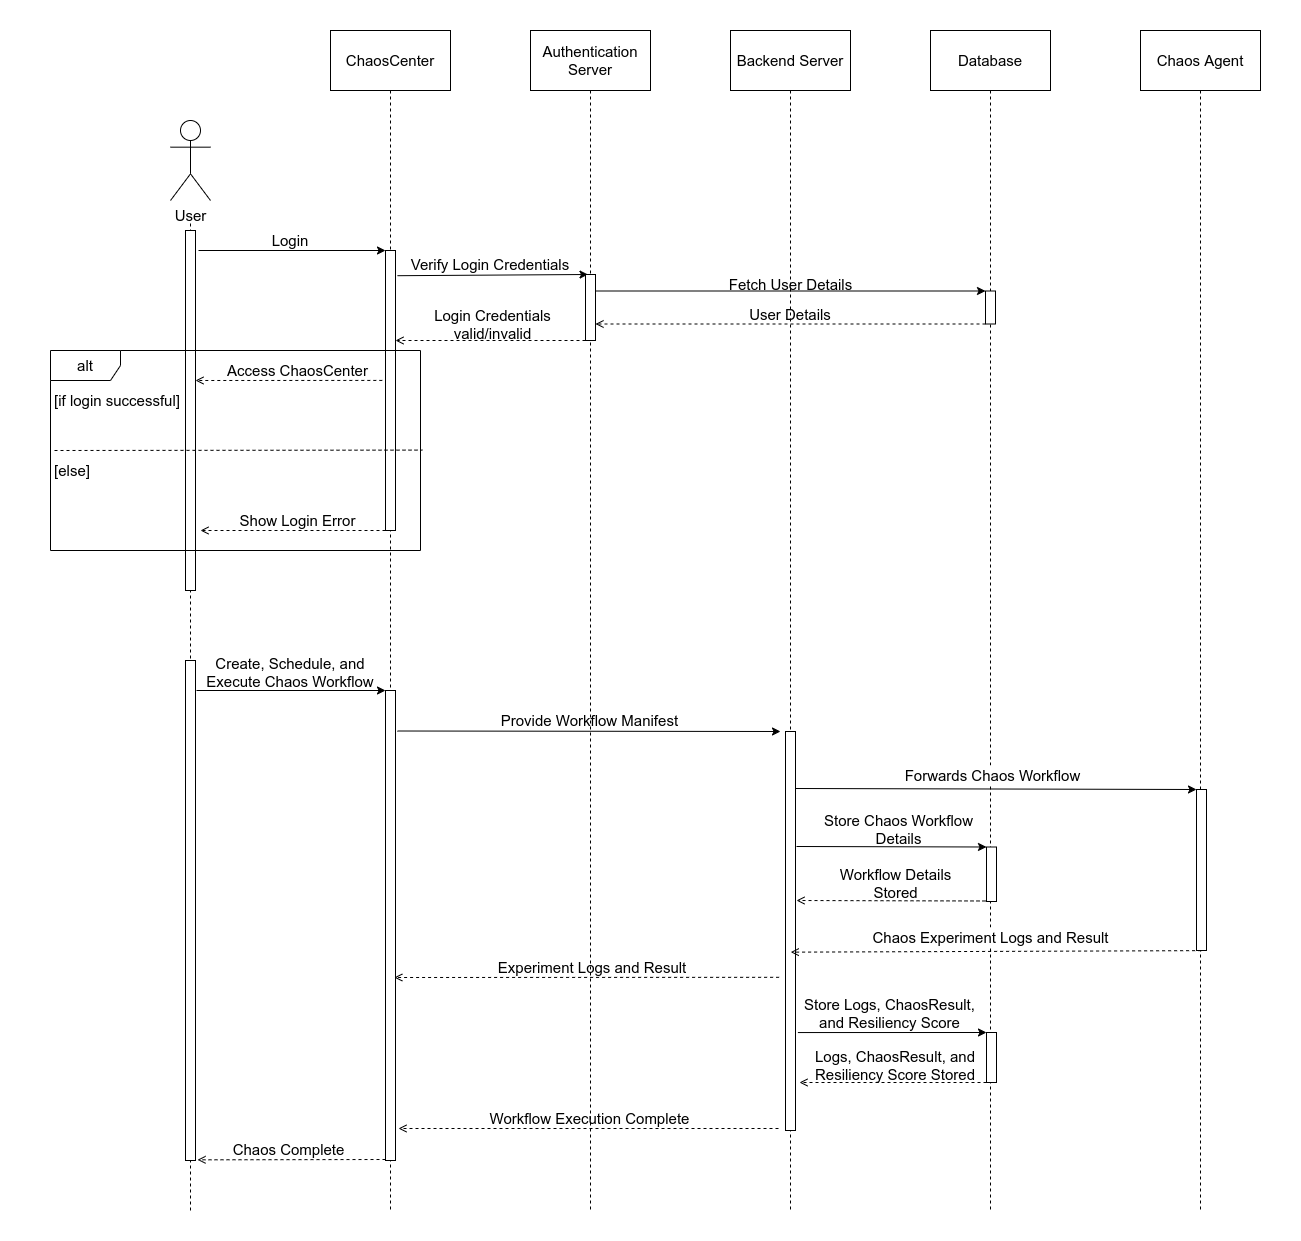
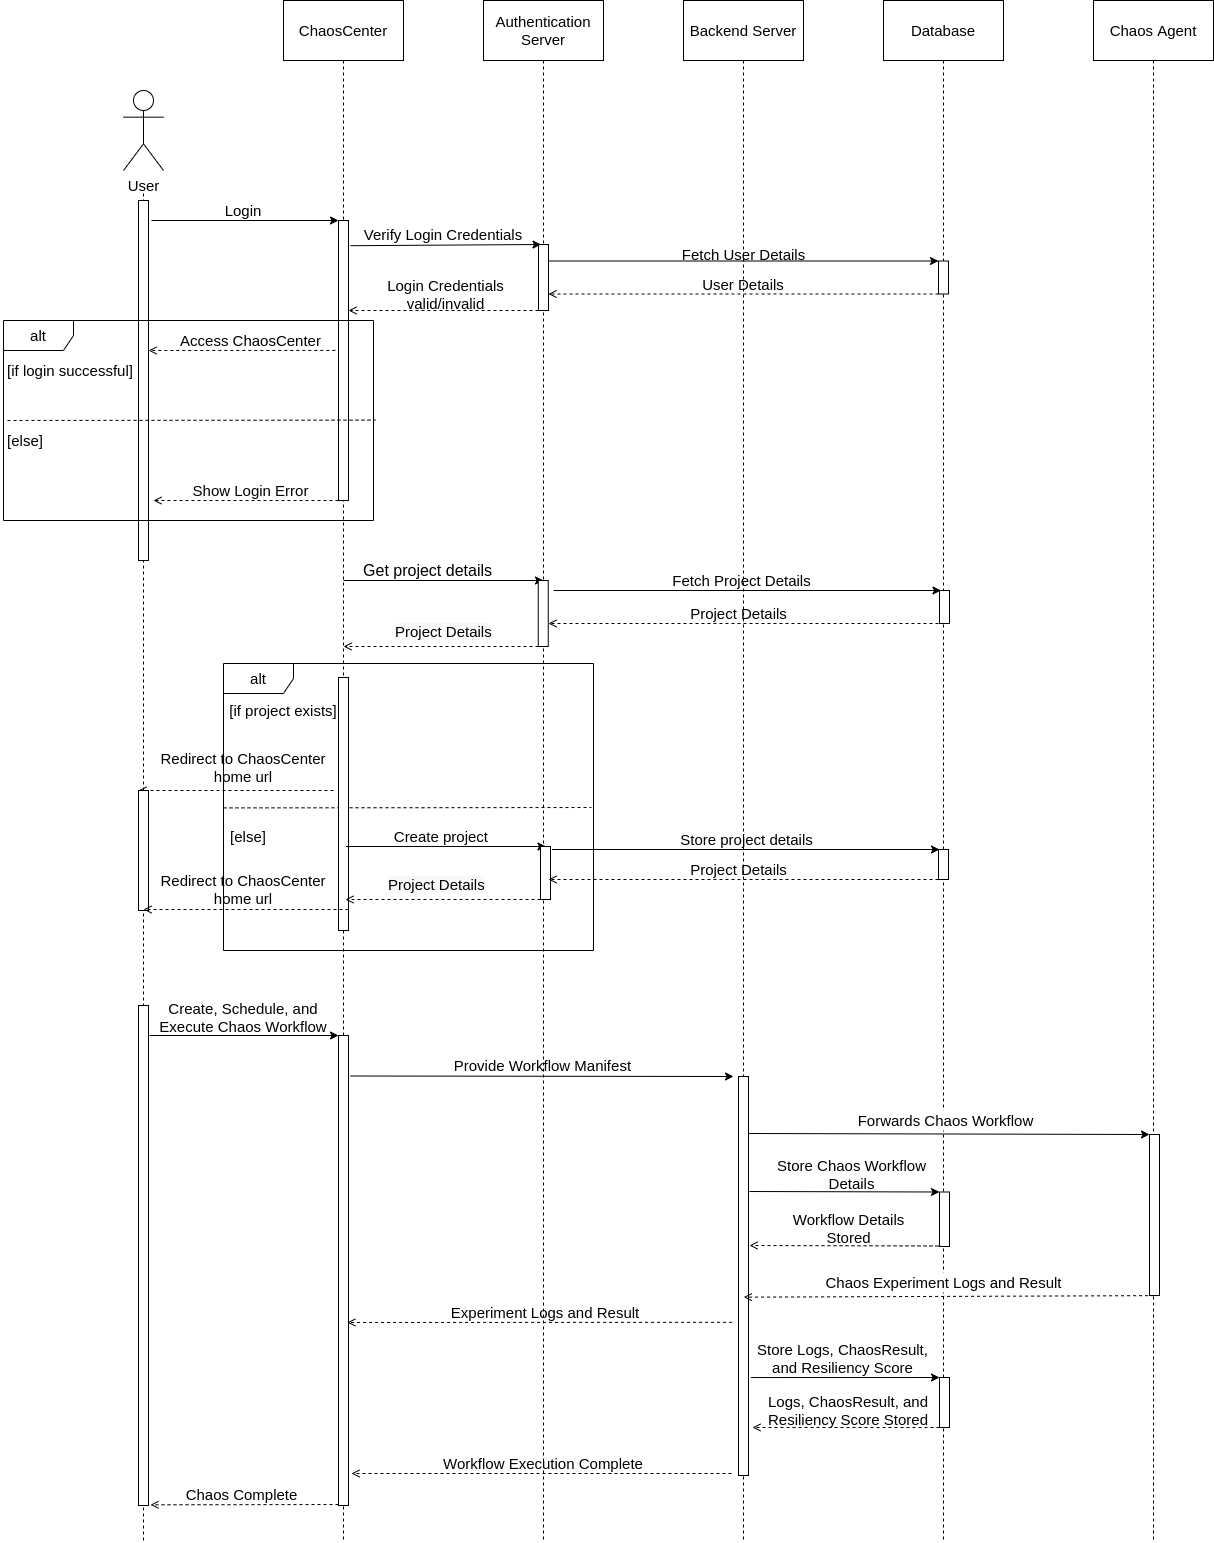
Updated chaos control plane arch (#159)

diff --git a/website/docs/architecture/chaos-control-plane.md b/website/docs/architecture/chaos-control-plane.md
@@ -12,7 +12,7 @@ Chaos Control Plane consists of micro-services responsible for the functioning o
 
 ## Chaos Control Plane Components
 
-* **Authentication Server:** A Golang micro-service that is responsible for authorizing as well as authenticating the requests received from Chaos Center. It primarily serves the cause of user creation, user login, reset the password, and update user information.
+* **Authentication Server:** A Golang micro-service that is responsible for authorizing, authenticating the requests received from Chaos Center and managing users along with their projects. It primarily serves the cause of user creation, user login, resetting the password, updating user information, creating project, managing project related operations.
 
 * **Backend Server:** A GraphQL based Golang micro-service that serves the requests received from Chaos Center, by either querying the database for the relevant information or by fetching information from the Execution Plane.
 
@@ -26,13 +26,13 @@ Chaos Control Plane consists of micro-services responsible for the functioning o
 
   * **Litmus API:** Refers to two different Litmus APIs, namely Litmus Authentication API and Litmus Portal API:
 
-    * **Litmus Authentication API:** Used to authenticate the idenity of a user and to perform several user-specific tasks like update profile, change password, reset password, create new users, etc. It uses the Authentication Server to perform these tasks.
+    * **Litmus Authentication API:** Used to authenticate the identity of a user and to perform several user and project specific tasks like create new users, update profile, update password, create project, invite users to project, get project details etc. It uses the Authentication Server to perform these tasks.
 
     * **Litmus Portal API:** Provides command-line and UI experience for managing and monitoring the events around chaos workflows. It uses the Backend Server to perform its functions.
 
 ## Standard Chaos Control Plane Flow
 
-1. The User logs in to the ChaosCenter using a valid login credential. Every user is a part of a project and has a role assigned to them. To schedule a workflow, the user needs to have an Editor or Owner role assigned in the project.
+1. The User logs in to the ChaosCenter using a valid login credential. A default project is created for the user on initial login. Every user is a part of a project and has a role assigned to them. To schedule a workflow, the user needs to have an Editor or Owner role assigned in the project.
 2. The user uploads a Chaos Workflow manifest using the ChaosCenter, which is received by the Backend Server.
 3. Backend Server stores the manifest in the Database and also sends it to the Chaos Agent.
 4. Chaos Agent uses the Chaos Workflow manifest to inject chaos into the target resources. The steps of the Chaos Workflow execution can be visualized using the ChaosCenter.

diff --git a/website/versioned_docs/version-2.4.0/architecture/chaos-control-plane.md b/website/versioned_docs/version-2.4.0/architecture/chaos-control-plane.md
@@ -12,7 +12,7 @@ Chaos Control Plane consists of micro-services responsible for the functioning o
 
 ## Chaos Control Plane Components
 
-* **Authentication Server:** A Golang micro-service that is responsible for authorizing as well as authenticating the requests received from Chaos Center. It primarily serves the cause of user creation, user login, reset the password, and update user information.
+* **Authentication Server:** A Golang micro-service that is responsible for authorizing, authenticating the requests received from Chaos Center and managing users along with their projects. It primarily serves the cause of user creation, user login, resetting the password, updating user information, creating project, managing project related operations.
 
 * **Backend Server:** A GraphQL based Golang micro-service that serves the requests received from Chaos Center, by either querying the database for the relevant information or by fetching information from the Execution Plane.
 
@@ -26,13 +26,13 @@ Chaos Control Plane consists of micro-services responsible for the functioning o
 
   * **Litmus API:** Refers to two different Litmus APIs, namely Litmus Authentication API and Litmus Portal API:
 
-    * **Litmus Authentication API:** Used to authenticate the idenity of a user and to perform several user-specific tasks like update profile, change password, reset password, create new users, etc. It uses the Authentication Server to perform these tasks.
+    * **Litmus Authentication API:** Used to authenticate the identity of a user and to perform several user and project specific tasks like create new users, update profile, update password, create project, invite users to project, get project details etc. It uses the Authentication Server to perform these tasks.
 
     * **Litmus Portal API:** Provides command-line and UI experience for managing and monitoring the events around chaos workflows. It uses the Backend Server to perform its functions.
 
 ## Standard Chaos Control Plane Flow
 
-1. The User logs in to the ChaosCenter using a valid login credential. Every user is a part of a project and has a role assigned to them. To schedule a workflow, the user needs to have an Editor or Owner role assigned in the project.
+1. The User logs in to the ChaosCenter using a valid login credential. A default project is created for the user on initial login. Every user is a part of a project and has a role assigned to them. To schedule a workflow, the user needs to have an Editor or Owner role assigned in the project.
 2. The user uploads a Chaos Workflow manifest using the ChaosCenter, which is received by the Backend Server.
 3. Backend Server stores the manifest in the Database and also sends it to the Chaos Agent.
 4. Chaos Agent uses the Chaos Workflow manifest to inject chaos into the target resources. The steps of the Chaos Workflow execution can be visualized using the ChaosCenter.
